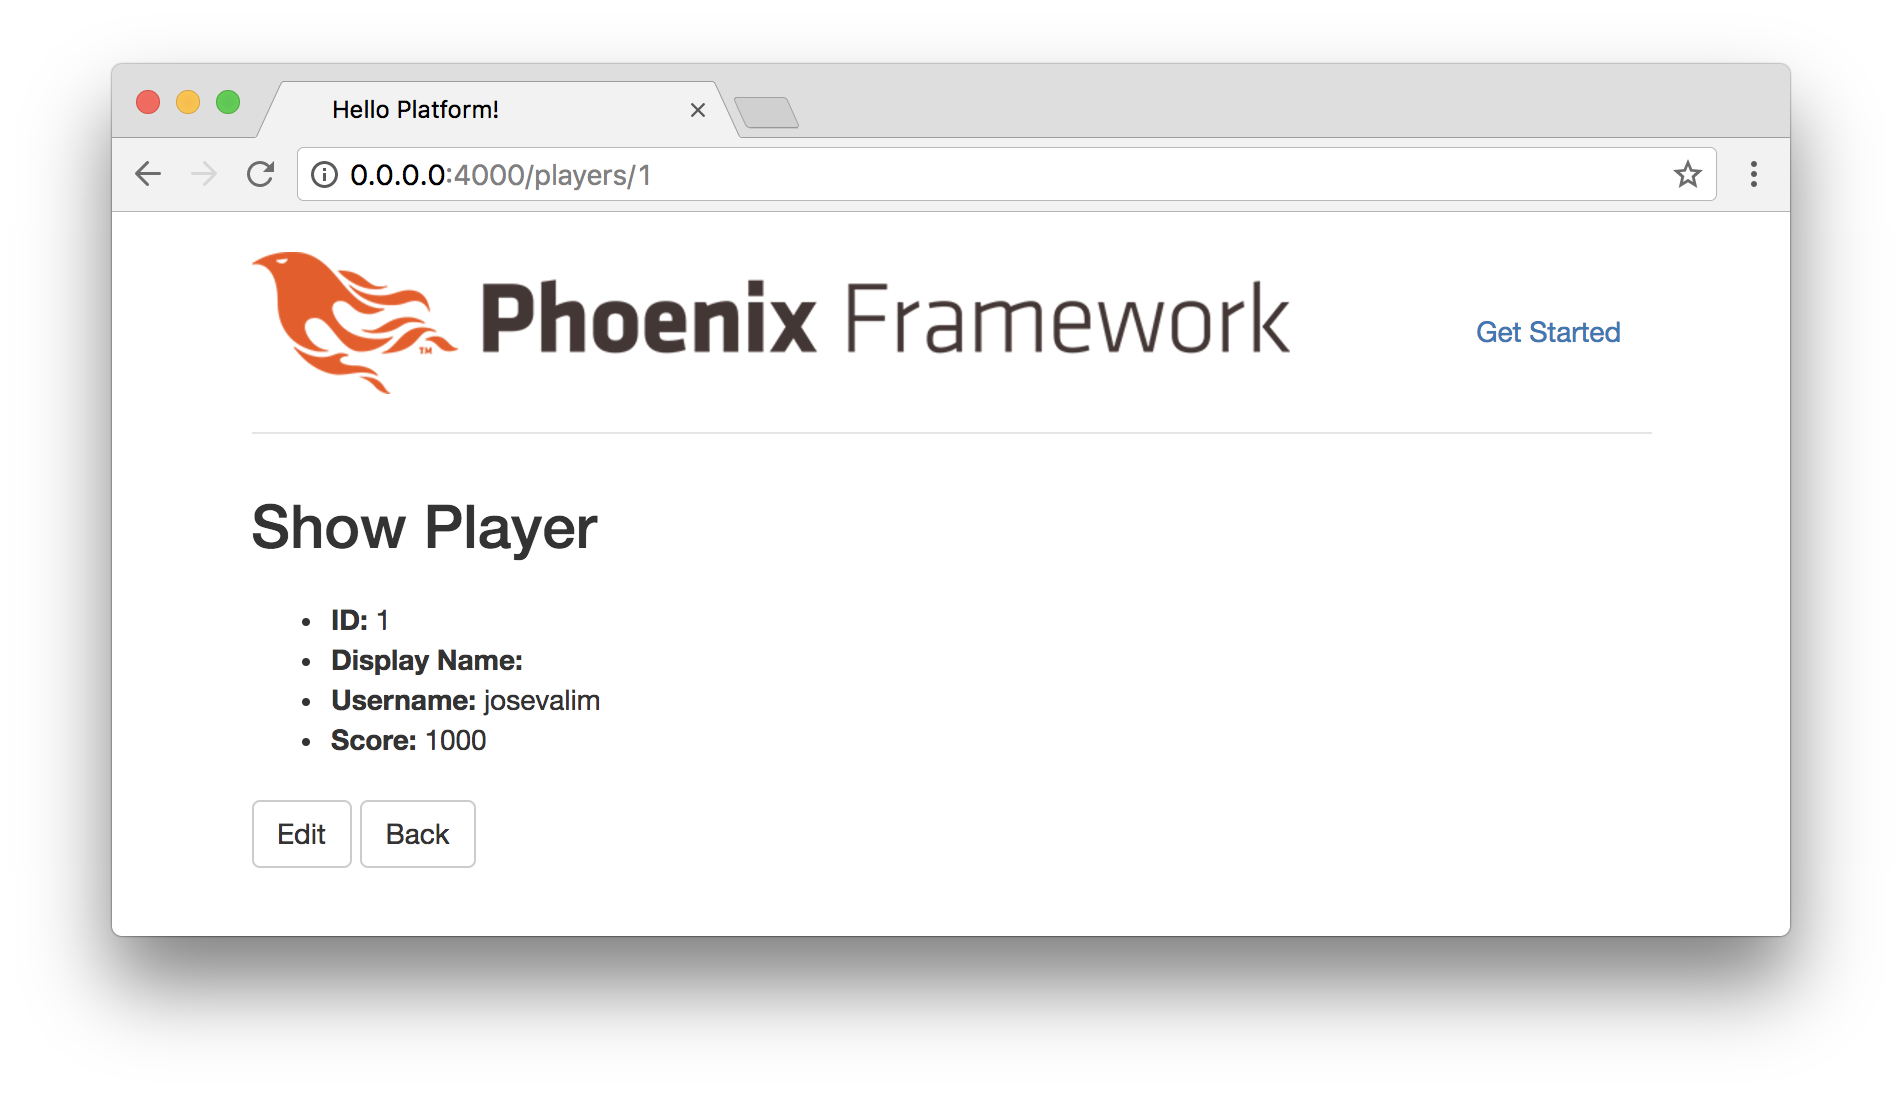
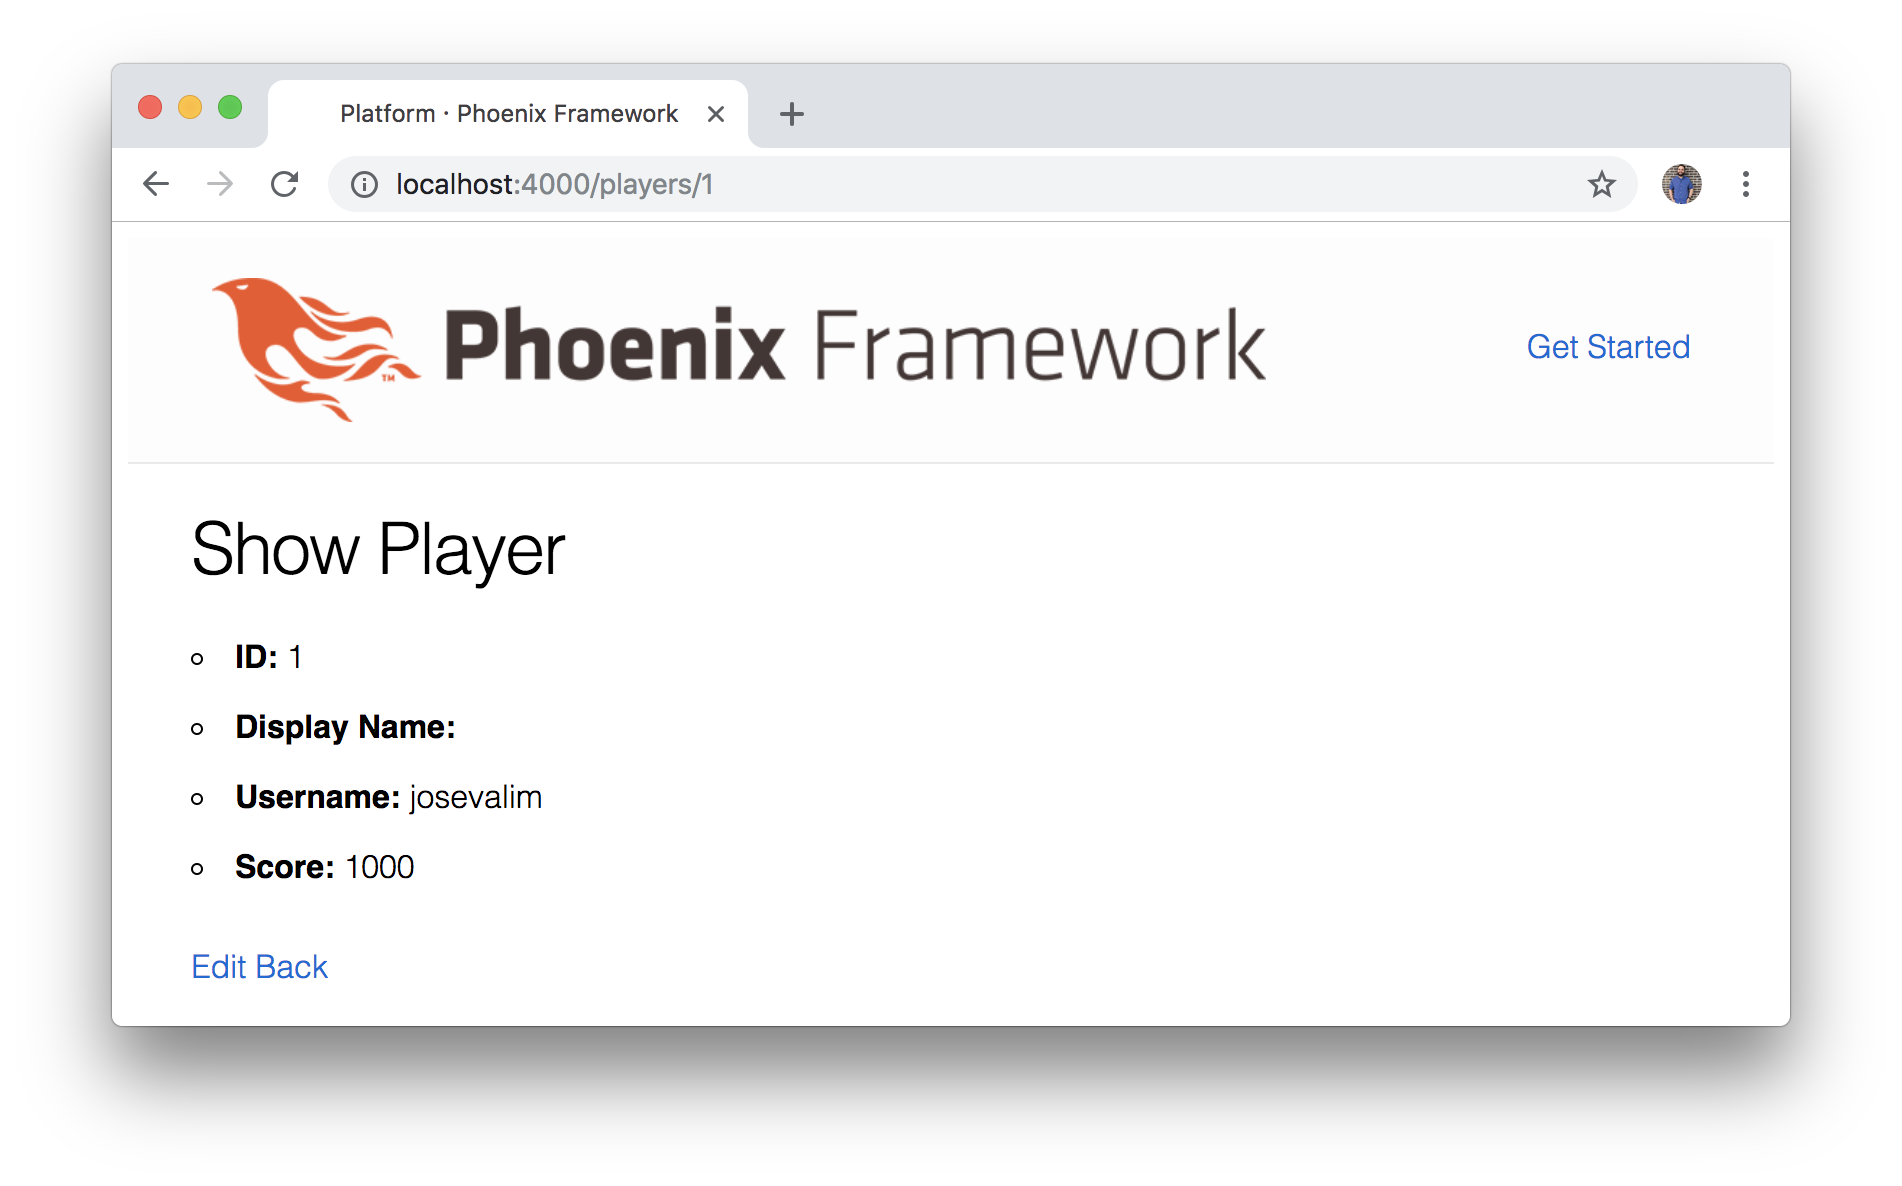
Updates to new and show player sections

diff --git a/manuscript/phoenix_sign_up.md b/manuscript/phoenix_sign_up.md
@@ -312,9 +312,10 @@ Let's start by updating our `new.html.eex` file:
 ```
 
 We're basically moving some of the content from the `form.html.eex` file into
-our `new.html.eex` file along with some minor changes. On a successful
-submission, we're using the `create` action from our player controller. This is
-what it should look like in the browser:
+our `new.html.eex` file along with some minor changes to support our `password`
+field instead of a `score` field. On a successful submission, we're using the
+`create` action from our player controller. This is what the **New Player**
+page should look like in the browser:
 
 ![Updated New Player Page](images/phoenix_sign_up/phoenix_updated_sign_up.png)
 
@@ -334,7 +335,7 @@ Let's update the `lib/platform_web/templates/player/show.html.eex` file with
 the following:
 
 ```embedded_elixir
-<h2>Show Player</h2>
+<h1>Show Player</h1>
 
 <ul>
   <li><strong>ID: </strong><%= @player.id %></li>
@@ -343,14 +344,14 @@ the following:
   <li><strong>Score: </strong><%= @player.score %></li>
 </ul>
 
-<span><%= link "Edit", to: player_path(@conn, :edit, @player), class: "btn btn-default" %></span>
-<span><%= link "Back", to: page_path(@conn, :index), class: "btn btn-default" %></span>
+<span><%= link "Edit", to: Routes.player_path(@conn, :edit, @player) %></span>
+<span><%= link "Back", to: Routes.player_path(@conn, :index) %></span>
 ```
 
-We display all the relevant data on the page, and added a few classes to the
-buttons at the bottom to make things look nicer. Users can choose to **Edit**
-their accounts from here, and if they click the **Back** button they can
-navigate back to the home page.
+Here we're displaying all the relevant player data (`id`, `display_name`,
+`username`, and `score`) on the page. Users can choose to **Edit** their
+accounts from here, and if they click the **Back** button they can navigate
+back to the home page.
 
 ![Show Player Page](images/phoenix_sign_up/phoenix_show_player_page.png)
 
